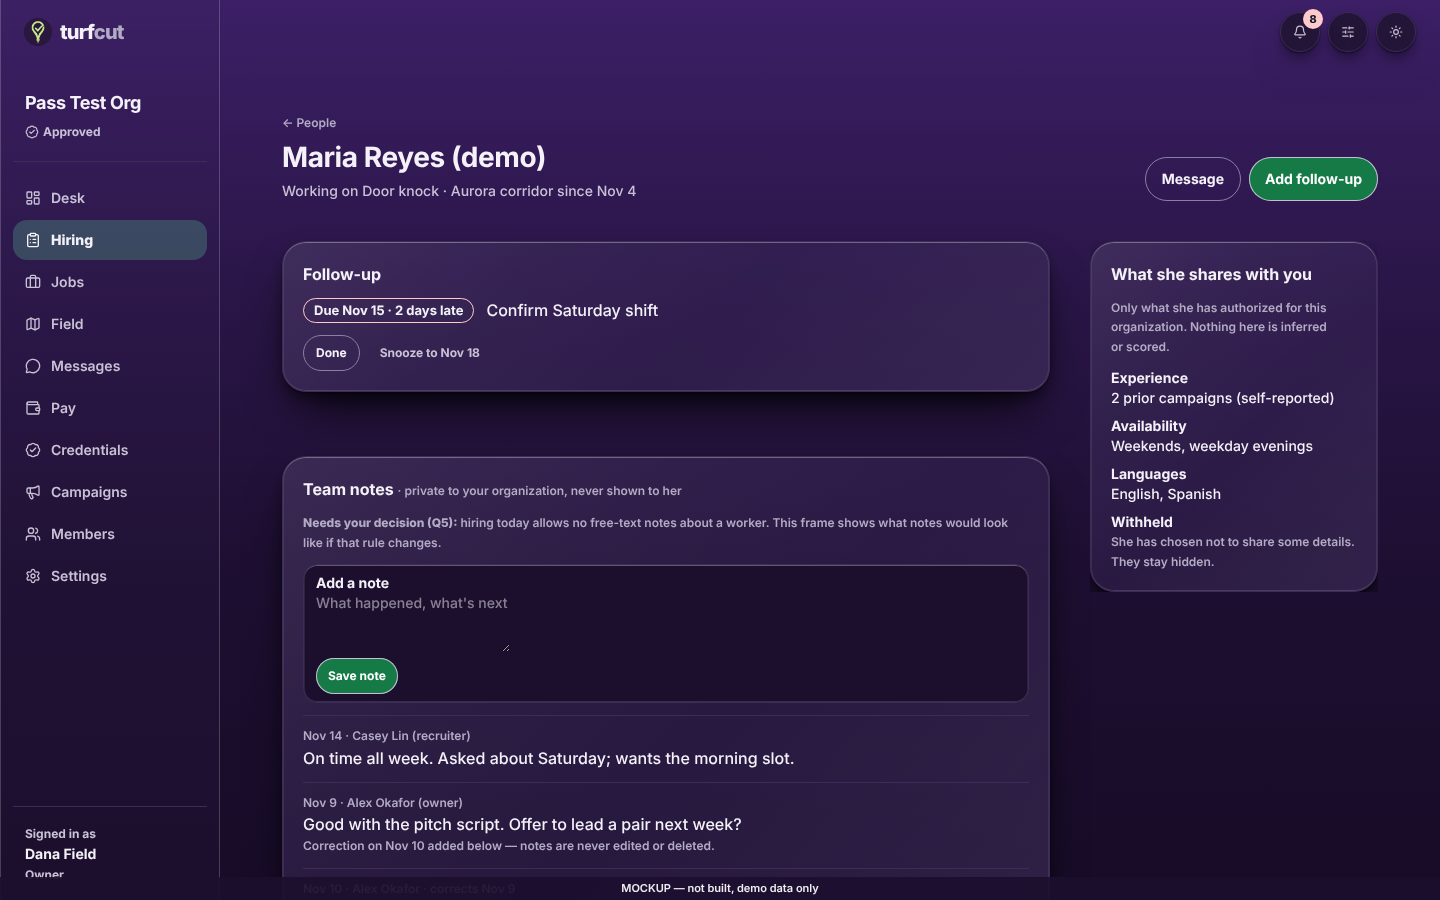
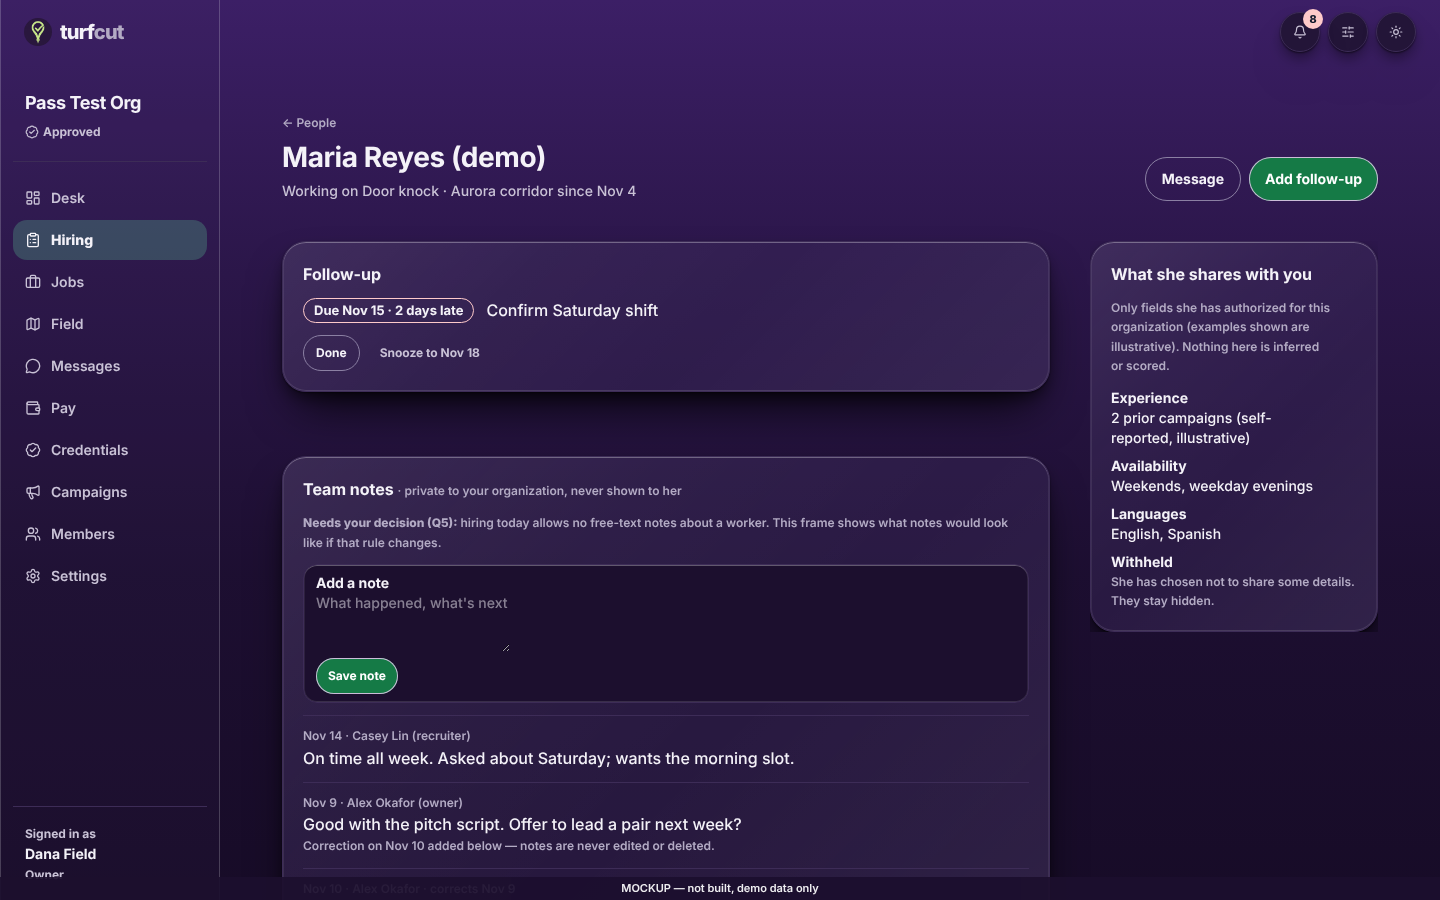
docs: address review of CRM mockups
Route facts corrected, notes marked as depending on Q5, illustrative fields
labelled, dispute count dropped, list semantics, local-only render guard.

Claude-Session: https://claude.ai/code/session_01M5jonG7B326Ty4GJKyZ5gK

Changed region(s): [[0.75, 0.3111, 0.9375, 0.6844], [0.9062, 0.6533, 0.9688, 0.7156]]

diff --git a/docs/design/crm-mockups-2026-11-17/frames/h1-people-list.html b/docs/design/crm-mockups-2026-11-17/frames/h1-people-list.html
@@ -1,21 +1,21 @@
 <!-- H1 · Hiring CRM · org-wide People list with inspector. Shell: org (owner) /hiring. -->
 <main class="tpl" data-template="listDetail" data-panel="inspector" data-org="true" style="--tpl-gap:2.5rem">
-<div class="tpl-head"><header class="page-header"><div class="min-w-0 space-y-1.5"><h1 class="page-title masthead break-words">People</h1><div class="text-muted-sm max-w-prose">Everyone who has applied to, been invited to, or worked for your organization. Notes and follow-ups here are private to your team.</div></div></header></div>
+<div class="tpl-head"><header class="page-header"><div class="min-w-0 space-y-1.5"><h1 class="page-title masthead break-words">People</h1><div class="text-muted-sm max-w-prose">Everyone who has applied to, been invited to, or worked for your organization. Follow-ups here are private to your team. <em>(Notes: only if Q5 changes.)</em></div></div></header></div>
 <div class="tpl-body"><div class="tpl-main">
 <section aria-labelledby="p-tot"><h2 id="p-tot" class="sr-only">People totals</h2>
 <dl class="summary-band"><div><dt>people</dt><dd>38</dd></div><div><dt>working now</dt><dd>6</dd></div><div><dt>follow-ups due</dt><dd>3</dd></div><div><dt>no contact in 30 days</dt><dd>9</dd></div></dl></section>
 <div class="flex flex-wrap gap-2" role="group" aria-label="Filter people"><button class="filter-chip" aria-pressed="true">All</button><button class="filter-chip" aria-pressed="false">Working</button><button class="filter-chip" aria-pressed="false">Past workers</button><button class="filter-chip" aria-pressed="false">Applied, not hired</button><button class="filter-chip" aria-pressed="false">Follow-up due</button></div>
-<div class="card" style="padding:0;overflow:hidden">
+<div class="card" style="padding:0;overflow:hidden" role="list" aria-label="People">
 <div class="person-head" aria-hidden="true"><span>Person</span><span>Latest job</span><span>Stage</span><span>Last contact</span><span>Follow-up</span></div>
-<div class="person-row" aria-current="true"><div class="who"><span class="avatar-sm">MR</span><div class="min-w-0"><strong>Maria Reyes</strong><div class="text-hint">11 shifts · 2 jobs</div></div></div><span>Door knock · Aurora</span><span class="status status-live">● Working</span><span>Nov 14</span><span class="due-chip" data-due="overdue">Due Nov 15</span></div>
-<div class="person-row"><div class="who"><span class="avatar-sm">DK</span><div class="min-w-0"><strong>Devon Kim</strong><div class="text-hint">4 shifts · 1 job</div></div></div><span>Door knock · Aurora</span><span class="status status-live">● Working</span><span>Nov 12</span><span class="text-hint">—</span></div>
-<div class="person-row"><div class="who"><span class="avatar-sm">TO</span><div class="min-w-0"><strong>Tomás Ortiz</strong><div class="text-hint">Applied Nov 15</div></div></div><span>Canvass · Westminster</span><span class="status status-pending">◔ Applied</span><span>—</span><span class="due-chip">Nov 18</span></div>
-<div class="person-row"><div class="who"><span class="avatar-sm">JP</span><div class="min-w-0"><strong>Jada Price</strong><div class="text-hint">23 shifts · 5 jobs</div></div></div><span>Door knock · Lakewood</span><span class="status status-paid">✓ Past worker</span><span>Oct 29</span><span class="text-hint">—</span></div>
-<div class="person-row"><div class="who"><span class="avatar-sm">SB</span><div class="min-w-0"><strong>Sam Bui</strong><div class="text-hint">Offer sent Nov 13</div></div></div><span>Canvass · Westminster</span><span class="status status-sending">➤ Offered</span><span>Nov 13</span><span class="due-chip" data-due="overdue">Due Nov 16</span></div>
-<div class="person-row"><div class="who"><span class="avatar-sm">LH</span><div class="min-w-0"><strong>Lena Harper</strong><div class="text-hint">Invited Nov 10</div></div></div><span>Door knock · Aurora</span><span class="status status-queued">… Invited</span><span>Nov 10</span><span class="text-hint">—</span></div>
+<div role="listitem" class="person-row" aria-current="true"><div class="who"><span class="avatar-sm">MR</span><div class="min-w-0"><strong>Maria Reyes</strong><div class="text-hint">11 shifts · 2 jobs</div></div></div><span>Door knock · Aurora</span><span class="status status-live">● Working</span><span>Nov 14</span><span class="due-chip" data-due="overdue">Due Nov 15</span></div>
+<div role="listitem" class="person-row"><div class="who"><span class="avatar-sm">DK</span><div class="min-w-0"><strong>Devon Kim</strong><div class="text-hint">4 shifts · 1 job</div></div></div><span>Door knock · Aurora</span><span class="status status-live">● Working</span><span>Nov 12</span><span class="text-hint">—</span></div>
+<div role="listitem" class="person-row"><div class="who"><span class="avatar-sm">TO</span><div class="min-w-0"><strong>Tomás Ortiz</strong><div class="text-hint">Applied Nov 15</div></div></div><span>Canvass · Westminster</span><span class="status status-pending">◔ Applied</span><span>—</span><span class="due-chip">Nov 18</span></div>
+<div role="listitem" class="person-row"><div class="who"><span class="avatar-sm">JP</span><div class="min-w-0"><strong>Jada Price</strong><div class="text-hint">23 shifts · 5 jobs</div></div></div><span>Door knock · Lakewood</span><span class="status status-paid">✓ Past worker</span><span>Oct 29</span><span class="text-hint">—</span></div>
+<div role="listitem" class="person-row"><div class="who"><span class="avatar-sm">SB</span><div class="min-w-0"><strong>Sam Bui</strong><div class="text-hint">Offer sent Nov 13</div></div></div><span>Canvass · Westminster</span><span class="status status-sending">➤ Offered</span><span>Nov 13</span><span class="due-chip" data-due="overdue">Due Nov 16</span></div>
+<div role="listitem" class="person-row"><div class="who"><span class="avatar-sm">LH</span><div class="min-w-0"><strong>Lena Harper</strong><div class="text-hint">Invited Nov 10</div></div></div><span>Door knock · Aurora</span><span class="status status-queued">… Invited</span><span>Nov 10</span><span class="text-hint">—</span></div>
 </div></div>
 <section class="tpl-panel" aria-label="Person details"><div class="card space-y-3"><div class="who" style="display:flex;gap:.625rem;align-items:center"><span class="avatar-sm">MR</span><div><h2 class="text-base font-semibold">Maria Reyes (demo)</h2><div class="text-hint">Working · Door knock · Aurora</div></div></div>
-<dl class="space-y-2 text-sm"><div><dt class="label">Last contact</dt><dd>Nov 14 · message in the job chat</dd></div><div><dt class="label">Follow-up</dt><dd><span class="due-chip" data-due="overdue">Due Nov 15</span> Confirm Saturday shift</dd></div><div><dt class="label">Shifts</dt><dd>11 checked in · 0 disputes</dd></div></dl>
-<div class="flex gap-2"><button class="btn-primary btn-sm">Open record</button><button class="btn-secondary btn-sm">Add note</button></div>
+<dl class="space-y-2 text-sm"><div><dt class="label">Last contact</dt><dd>Nov 14 · message in the job chat</dd></div><div><dt class="label">Follow-up</dt><dd><span class="due-chip" data-due="overdue">Due Nov 15</span> Confirm Saturday shift</dd></div><div><dt class="label">Shifts</dt><dd>11 checked-in shifts</dd></div></dl>
+<div class="flex gap-2"><button class="btn-primary btn-sm">Open record</button><button class="btn-secondary btn-sm">Add follow-up</button></div>
 <p class="text-hint">What she shares with you stays exactly as she shared it. This list never shows or sorts by anything she has not shared.</p></div></section>
 </div></main>

diff --git a/docs/design/crm-mockups-2026-11-17/frames/h3-follow-ups.html b/docs/design/crm-mockups-2026-11-17/frames/h3-follow-ups.html
@@ -3,9 +3,9 @@
 <div class="tpl-head"><header class="page-header"><div class="min-w-0 space-y-1.5"><h1 class="page-title masthead break-words">Follow-ups</h1><div class="text-muted-sm max-w-prose">Who needs a reply or a decision, earliest first. Done items stay in each person's history.</div></div></header></div>
 <div class="tpl-body"><div class="tpl-main">
 <dl class="summary-band"><div><dt>overdue</dt><dd>2</dd></div><div><dt>due today</dt><dd>1</dd></div><div><dt>this week</dt><dd>4</dd></div></dl>
-<div class="card" style="padding:0;overflow:hidden">
-<div class="person-row"><div class="who"><span class="avatar-sm">SB</span><div class="min-w-0"><strong>Sam Bui</strong><div class="text-hint">Offered Nov 13 · no reply</div></div></div><span>Nudge about the offer</span><span class="status status-sending">➤ Offered</span><span class="due-chip" data-due="overdue">3 days late</span><span><button class="btn-secondary btn-sm">Open</button></span></div>
-<div class="person-row"><div class="who"><span class="avatar-sm">MR</span><div class="min-w-0"><strong>Maria Reyes</strong><div class="text-hint">Working · Aurora</div></div></div><span>Confirm Saturday shift</span><span class="status status-live">● Working</span><span class="due-chip" data-due="overdue">2 days late</span><span><button class="btn-secondary btn-sm">Open</button></span></div>
-<div class="person-row"><div class="who"><span class="avatar-sm">TO</span><div class="min-w-0"><strong>Tomás Ortiz</strong><div class="text-hint">Applied Nov 15</div></div></div><span>Decide on application</span><span class="status status-pending">◔ Applied</span><span class="due-chip">Tomorrow</span><span><button class="btn-secondary btn-sm">Open</button></span></div>
-<div class="person-row"><div class="who"><span class="avatar-sm">JP</span><div class="min-w-0"><strong>Jada Price</strong><div class="text-hint">Past worker</div></div></div><span>Invite to Westminster</span><span class="status status-paid">✓ Past worker</span><span class="due-chip">Nov 20</span><span><button class="btn-secondary btn-sm">Open</button></span></div>
+<div class="card" style="padding:0;overflow:hidden" role="list" aria-label="People">
+<div role="listitem" class="person-row"><div class="who"><span class="avatar-sm">SB</span><div class="min-w-0"><strong>Sam Bui</strong><div class="text-hint">Offered Nov 13 · no reply</div></div></div><span>Nudge about the offer</span><span class="status status-sending">➤ Offered</span><span class="due-chip" data-due="overdue">3 days late</span><span><button class="btn-secondary btn-sm">Open</button></span></div>
+<div role="listitem" class="person-row"><div class="who"><span class="avatar-sm">MR</span><div class="min-w-0"><strong>Maria Reyes</strong><div class="text-hint">Working · Aurora</div></div></div><span>Confirm Saturday shift</span><span class="status status-live">● Working</span><span class="due-chip" data-due="overdue">2 days late</span><span><button class="btn-secondary btn-sm">Open</button></span></div>
+<div role="listitem" class="person-row"><div class="who"><span class="avatar-sm">TO</span><div class="min-w-0"><strong>Tomás Ortiz</strong><div class="text-hint">Applied Nov 15</div></div></div><span>Decide on application</span><span class="status status-pending">◔ Applied</span><span class="due-chip">Tomorrow</span><span><button class="btn-secondary btn-sm">Open</button></span></div>
+<div role="listitem" class="person-row"><div class="who"><span class="avatar-sm">JP</span><div class="min-w-0"><strong>Jada Price</strong><div class="text-hint">Past worker</div></div></div><span>Invite to Westminster</span><span class="status status-paid">✓ Past worker</span><span class="due-chip">Nov 20</span><span><button class="btn-secondary btn-sm">Open</button></span></div>
 </div></div></div></main>

diff --git a/docs/design/crm-mockups-2026-11-17/frames/h2-person-record.html b/docs/design/crm-mockups-2026-11-17/frames/h2-person-record.html
@@ -15,6 +15,6 @@
 <ol class="timeline"><li><span class="dot"></span><div><strong>Checked in · Door knock · Aurora</strong><div class="text-hint">Nov 14 · shift 11</div></div></li><li><span class="dot"></span><div><strong>Hired</strong> by Casey Lin<div class="text-hint">Nov 4</div></div></li><li><span class="dot"></span><div><strong>Offer sent</strong><div class="text-hint">Nov 3</div></div></li><li><span class="dot"></span><div><strong>Applied</strong> to Door knock · Aurora<div class="text-hint">Nov 2 · snapshot of what she shared is kept as it was</div></div></li></ol></section>
 </div>
 <aside class="tpl-panel" aria-label="What she shares with you"><div class="card space-y-3"><h2 class="text-base font-semibold">What she shares with you</h2>
-<p class="text-hint">Only what she has authorized for this organization. Nothing here is inferred or scored.</p>
-<dl class="space-y-2 text-sm"><div><dt class="label">Experience</dt><dd>2 prior campaigns (self-reported)</dd></div><div><dt class="label">Availability</dt><dd>Weekends, weekday evenings</dd></div><div><dt class="label">Languages</dt><dd>English, Spanish</dd></div><div><dt class="label">Withheld</dt><dd class="text-hint">She has chosen not to share some details. They stay hidden.</dd></div></dl></div></aside>
+<p class="text-hint">Only fields she has authorized for this organization (examples shown are illustrative). Nothing here is inferred or scored.</p>
+<dl class="space-y-2 text-sm"><div><dt class="label">Experience</dt><dd>2 prior campaigns (self-reported, illustrative)</dd></div><div><dt class="label">Availability</dt><dd>Weekends, weekday evenings</dd></div><div><dt class="label">Languages</dt><dd>English, Spanish</dd></div><div><dt class="label">Withheld</dt><dd class="text-hint">She has chosen not to share some details. They stay hidden.</dd></div></dl></div></aside>
 </div></main>

diff --git a/docs/design/crm-mockups-2026-11-17/frames/f1-worker-today.html b/docs/design/crm-mockups-2026-11-17/frames/f1-worker-today.html
@@ -10,7 +10,7 @@
 <div class="stop"><span class="n">9</span><div class="min-w-0"><strong>Sunrise Pediatrics</strong><div class="text-hint">1150 Peoria St</div></div><button class="btn-secondary btn-sm">Log</button></div>
 </div></div>
 <aside class="tpl-panel" aria-label="Log stop 8"><div class="card space-y-3"><h2 class="text-base font-semibold">Stop 8 · Mile High Bakery</h2><p class="text-hint">Pick what happened. Nothing is sent as you; it is your report.</p>
-<div class="outcome-grid"><button class="btn-secondary">Not home</button><button class="btn-secondary">Answered, not interested</button><button class="btn-primary">Interested</button><button class="btn-secondary">Callback</button><button class="btn-secondary">Sale (I report)</button><button class="btn-secondary">Do not knock</button></div>
-<div class="field"><label class="label" for="fn">Note (optional)</label><input id="fn" placeholder="Owner back after 2pm"/></div>
+<div class="outcome-grid" role="group" aria-label="Outcome"><button class="btn-secondary">Not home</button><button class="btn-secondary">Answered, not interested</button><button class="btn-primary">Interested</button><button class="btn-secondary">Callback</button><button class="btn-secondary">Sale (I report)</button><button class="btn-secondary">Do not knock</button></div>
+<div class="field"><label class="label" for="fn">Note (optional)</label><input id="fn" placeholder="Owner back after 2pm"/><span class="text-hint">About the business only. No personal details.</span></div>
 <p class="text-hint">Do not knock removes this address for everyone on the job. Contact details only if the person gave them to you.</p></div></aside>
 </div></main>

diff --git a/docs/design/crm-mockups-2026-11-17/PLAN.md b/docs/design/crm-mockups-2026-11-17/PLAN.md
@@ -25,8 +25,8 @@ Order, as Caden asked: **(1) the hiring-pipeline CRM**, then **(2) the field-lea
 
 | | |
 |---|---|
-| KEEP | `/hiring` Pipeline, `/hiring/[jobId]/applicants`, `/matches`, `/invites`, the applicant inspector, `Engagement` and its append-only `EngagementEvent` history, the frozen `applicationSnapshot`, the job chat. |
-| EXTEND | `/people` becomes the People list (H1) and person record (H2). The stage shown comes from existing `EngagementStatus` and events. Last contact comes from existing messages and events. |
+| KEEP | `/hiring` Pipeline, `/hiring/[jobId]/applicants`, `/hiring/[jobId]/matches`, `/hiring/[jobId]/invites`, `/hiring/[jobId]/people/[engagementId]` (the per-job person page), the applicant inspector, `Engagement` and its append-only `EngagementEvent` history, the frozen `applicationSnapshot`, the job chat. |
+| ADD (new route) | An organization-wide People list (H1) and person record (H2), for example `/hiring/people`. There is no org-wide people route today (`/admin/people` is staff-only). Stage labels are derived from existing data: Applied = APPLIED, Offered = OFFERED, Invited = INVITED, Working = ACTIVE, Past worker = COMPLETED; CLAIMED, DECLINED, WITHDRAWN and CANCELLED would need their own labels. Last contact comes from existing messages and events. |
 | ADD (needs schema approval) | Follow-ups, and, only if you decide yes, private team notes. Both append-only. |
 | DEFER | Email or SMS sending, bulk messaging, tags, custom stages, import of outside contacts. |
 
@@ -39,6 +39,8 @@ Both are visible only to members of that organization with the existing hiring a
 
 **Rules this design keeps**
 
+- The "What she shares with you" fields in H2 (experience, availability, languages) are illustrative. Only fields that already exist and that she authorized would appear; the build slice confirms which ones exist.
+- Sample note text in H2 is illustrative and appears only if Q5 changes. The H1 "Add note" button and the "private to your team" line belong to that option too and go away under option (a).
 - Never infers politics. No political column, filter, sort or label anywhere on these pages. The "What she shares with you" panel shows only what she authorized for this organization, and withheld items stay withheld (H2).
 - No universal worker score. Nothing ranks people. Sorting is by date and stage only.
 - Append-only. Follow-ups and notes are new rows; "done", "snooze" and corrections are new events.
@@ -69,6 +71,7 @@ Sales are a worker's report until a manager confirms them.
 - No GPS dots. Outcomes are what the worker reports.
 - Contact details only when a person volunteers them; the CSV contact column is optional and off by default.
 - Business addresses only. No residential or voter lists in this slice.
+- Free-text on a stop note: F1 hints "no personal details"; the build adds the same guard in validation. "Reported by Maria R." shows worker activity to managers, which is work attribution and gets disclosed in the worker terms. Local "saved on this phone" storage needs a privacy check when built.
 - Offline: F1 shows Saved on the phone → Sent → Recorded so a worker with weak signal never loses an entry silently.
 
 ## Proposed build order (after approval)
